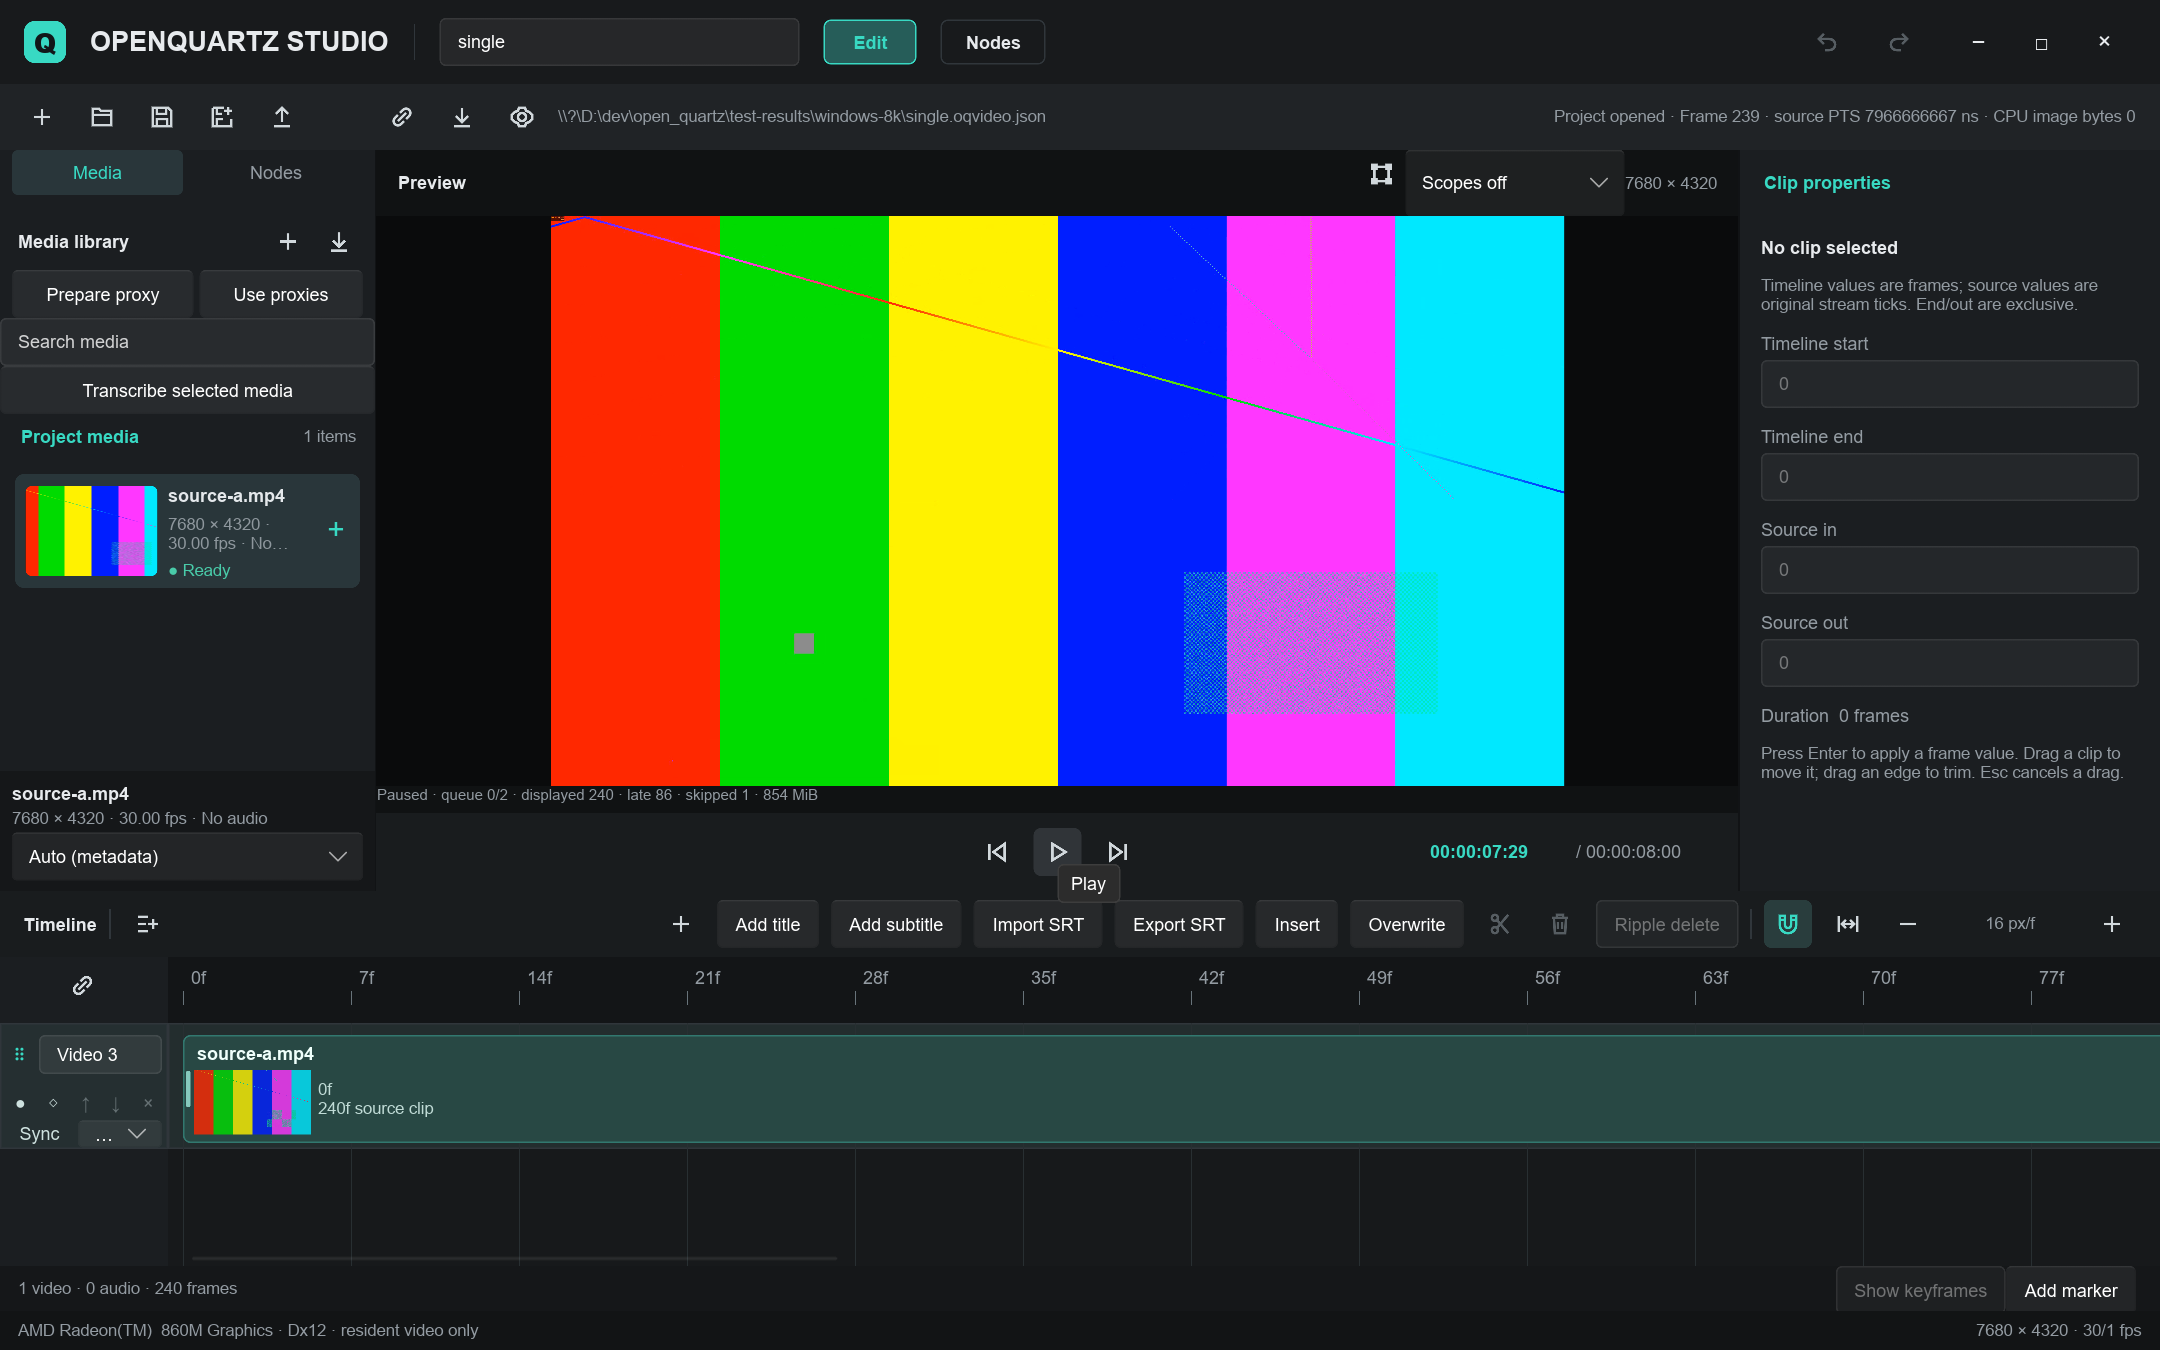
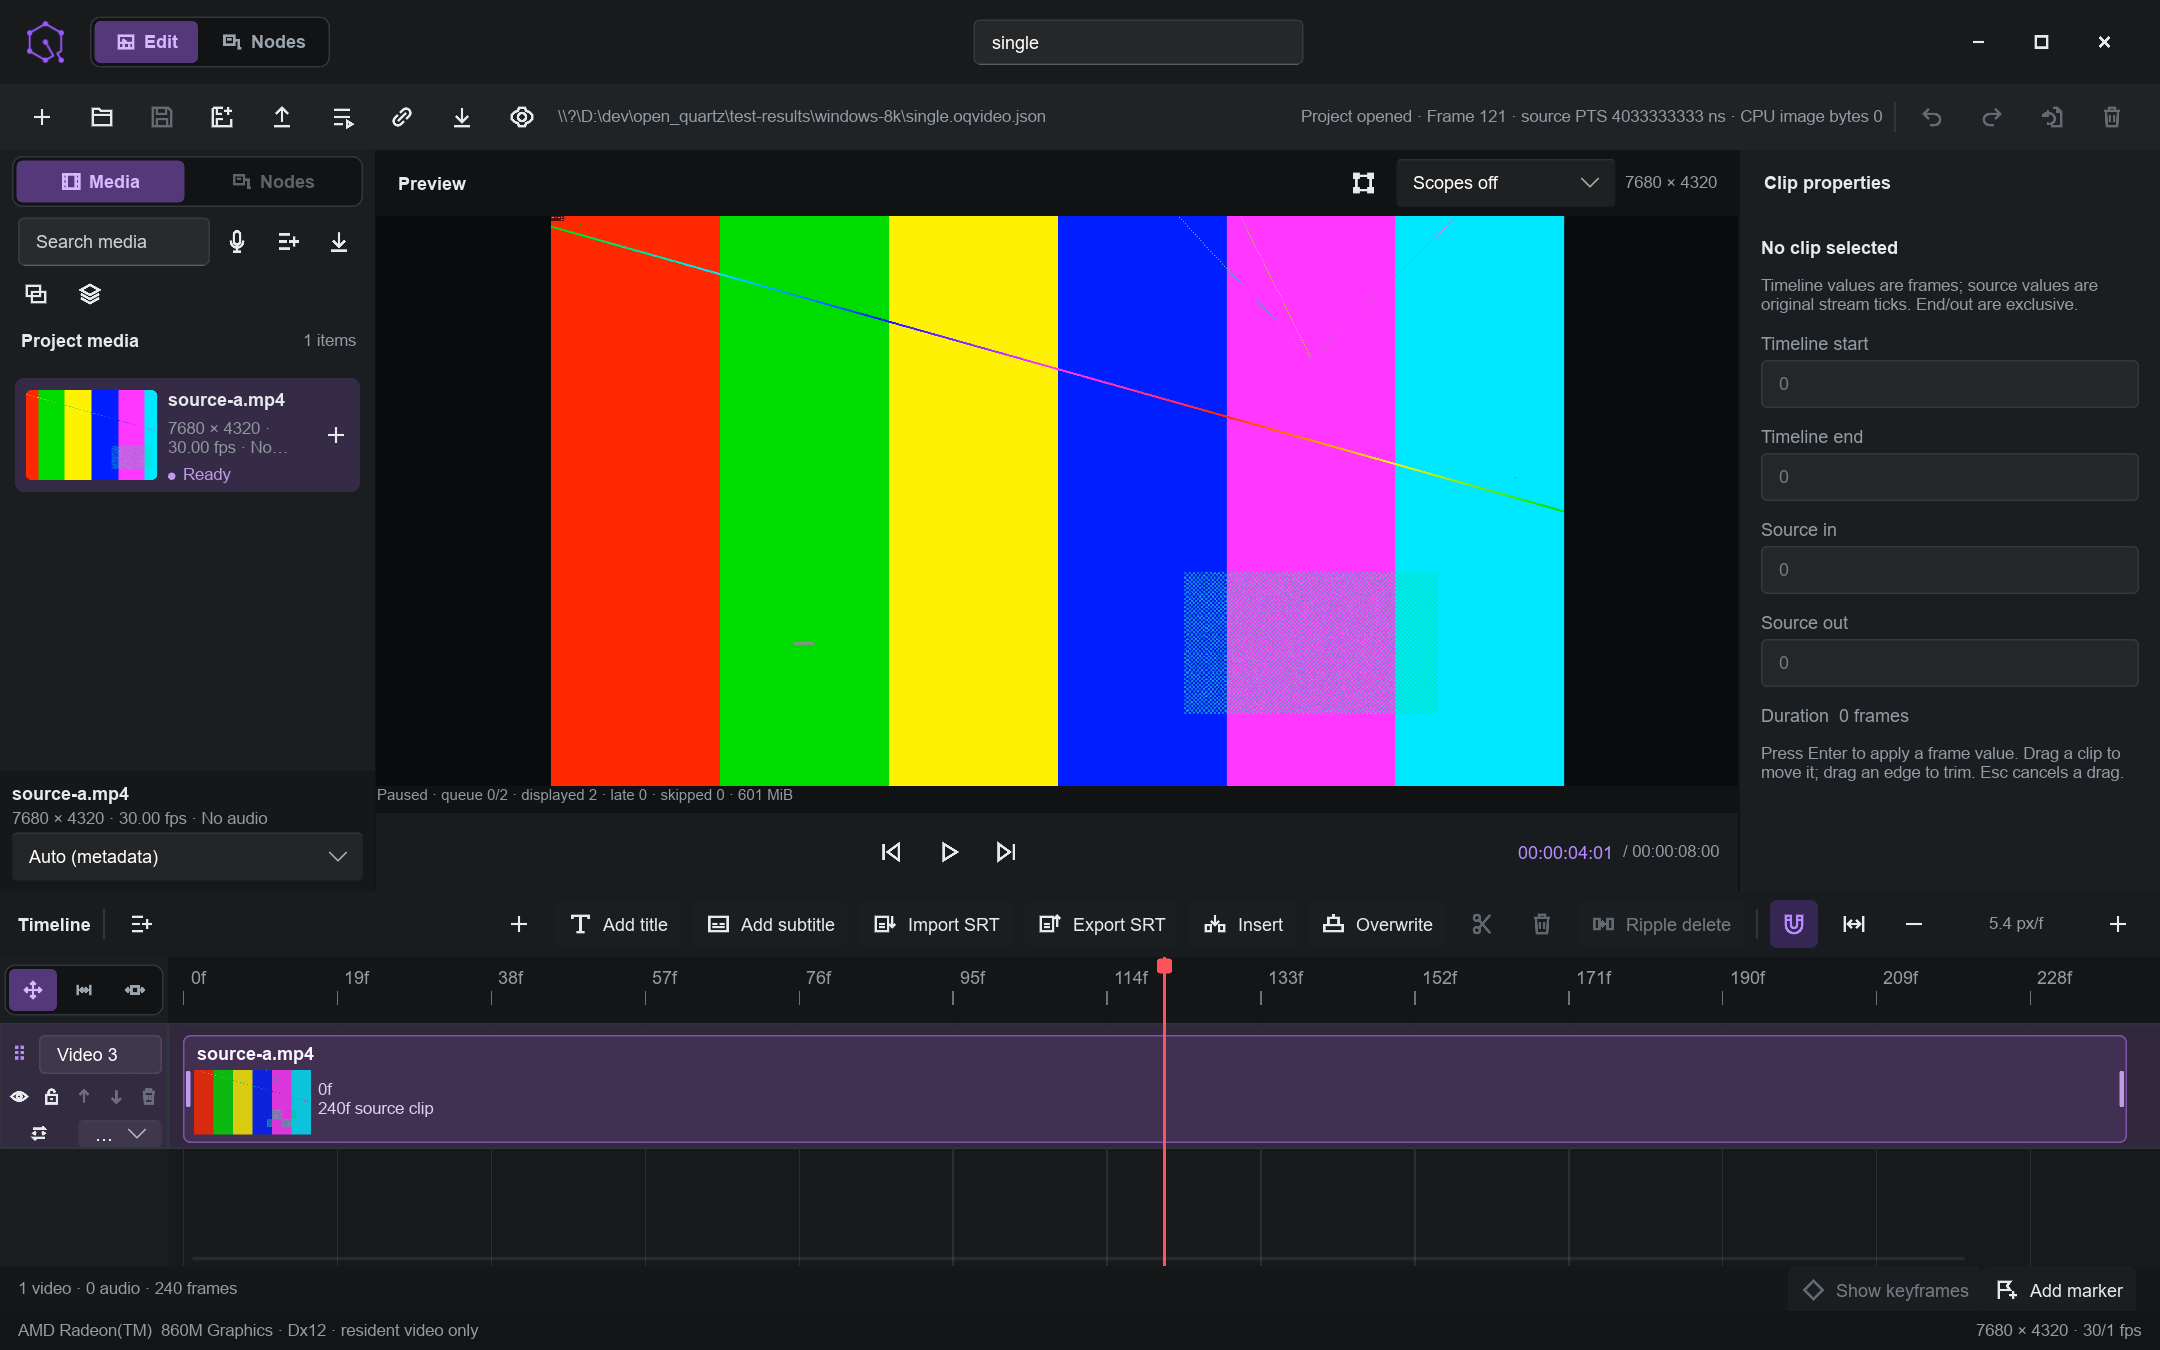
Refresh Studio highlights and native screenshots

diff --git a/README.md b/README.md
@@ -2,7 +2,9 @@
 
 [![Rust](https://img.shields.io/badge/Rust-native-000000?logo=rust)](https://www.rust-lang.org/) [![Slint](https://img.shields.io/badge/UI-Slint-2379F4)](https://slint.dev/) [![wgpu](https://img.shields.io/badge/GPU-wgpu-6E56CF)](https://wgpu.rs/) [![FFmpeg](https://img.shields.io/badge/Media-FFmpeg-007808?logo=ffmpeg)](https://ffmpeg.org/) [![CI](https://github.com/sanitor/oq-studio/actions/workflows/ci.yml/badge.svg?branch=master)](https://github.com/sanitor/oq-studio/actions/workflows/ci.yml) [![License: MIT](https://img.shields.io/badge/license-MIT-green)](LICENSE)
 
-**A native, non-destructive video editor for Windows and macOS.** Cut on a multitrack timeline, grade and composite with per-clip GPU node graphs, and turn spoken media into an editable rough cut with local AI.
+**A cross-platform video editor built for native GPU performance and local AI.** Cut on a non-destructive multitrack timeline, grade and composite with per-clip node graphs, and turn dialogue into an editable rough cut.
+
+Studio targets desktop and mobile platforms. The desktop preview is available for **Windows x64** and **Apple Silicon macOS**. Mobile support is planned across platforms, including iOS, iPadOS and Android.
 
 [Download the desktop preview](https://github.com/sanitor/oq-studio/releases) · [中文使用文档](apps/open_quartz_video_editor/README.md) · [Roadmap](apps/open_quartz_video_editor/TODO.md)
 
@@ -10,22 +12,19 @@
 
 ## Highlights
 
-### Cross-platform desktop editing
+### Edit and organize
 
-The same Studio project format and editing workflow are available on **Windows x64** and **Apple Silicon macOS**. Projects preserve source media references and sequence settings. Media relinking matches originals by content fingerprint when assets move.
+- **Work with a shared media library.** Import video, audio and stills, search project media, mark source In/Out points, and relink moved originals by content fingerprint. Autosave recovery and previous project versions help recover edits.
+- **Cut with a multitrack timeline.** Insert or overwrite, trim and ripple, roll a cut, slip or slide a clip, and keep linked audio in sync. Organize edits with markers, nested sequences and synchronized multicam switching.
+- **Build motion and titles.** Animate position, scale, rotation, crop, opacity and effect parameters. Use blend modes, dissolves, speed changes, titles and editable subtitles.
 
-| Windows x64 | Apple Silicon macOS |
-| --- | --- |
-| ![Studio on Windows with a multitrack timeline and Windows window controls](docs/images/studio-windows.png) | ![Studio on macOS with Metal shown in the status bar and an audio waveform on the timeline](docs/images/studio-macos.png) |
-| Direct3D 12 backend and D3D12VA video decode | Metal backend and VideoToolbox video decode |
+### Grade and composite
 
-### Native GPU performance
+- **Build a GPU graph for each clip.** Search the node catalog, preview effects on thumbnail tiles, connect branches, and monitor intermediate nodes or final output. Add built-in color, filter, distortion and blend nodes, or write a custom WGSL shader.
+- **Grade and compare shots.** Use ACEScg color management, primaries, HDR zones, channel curves, RGB mixing, CUBE LUTs and scopes. Compare against the original or a saved still, copy grades between clips, and keep alternate grade versions.
+- **Shape and track a composite.** Combine layers and mattes, track feathered masks, correct tracking drift, and apply shared exposure or saturation adjustments across a track or sequence.
 
-Studio uses Rust and Slint for the desktop interface, wgpu for rendering, and [oq-media](https://github.com/sanitor/oq-media) with FFmpeg for timestamp-accurate media access. Supported hardware video frames stay on the GPU for preview and compositing. Playback uses a bounded frame window, and proxy media helps with heavier projects.
-
-![A 7680 by 4320 source in the program monitor with renderer and playback diagnostics visible](docs/images/gpu-8k-preview.png)
-
-*8K playback diagnostics from a Windows Radeon test using synthetic footage. Frame delivery depends on the hardware, footage and effects. See the [8K measurement notes](apps/open_quartz_video_editor/DESIGN.md#912-8k实测与可复跑证据2026-11-20) for the test setup and results.*
+![Nodes workspace showing the searchable effect browser, a clip-level Color Corrector, the program monitor and the inspector](docs/images/node-grading.png)
 
 ### Local AI for editing and compositing
 
@@ -36,17 +35,20 @@ Studio uses Rust and Slint for the desktop interface, wgpu for rendering, and [o
 
 *Local Whisper transcription of a short excerpt from John F. Kennedy's inaugural address. Setup requires a local CLI and model. See the [transcription guide](apps/open_quartz_video_editor/README.md#本地转录与文本粗剪).*
 
-### Professional editing, grading and delivery
+### Mix and deliver
 
-| Workflow | Studio tools |
-| --- | --- |
-| **Edit** | Source In/Out, insert and overwrite, ripple and roll, slip and slide, nested sequences and synchronized multicam switching |
-| **Grade and composite** | Per-clip node graphs, ACEScg, scopes, CUBE LUTs, grade versions, shared track and timeline adjustments, and tracked polygon masks |
-| **Finish and deliver** | SRT, OTIO timeline exchange, ProRes 422 HQ, H.264 and HEVC MP4, plus 24-bit PCM stems with LUFS and true-peak reporting |
+- **Edit and mix audio.** Work with linked or independent audio, waveforms, fades, crossfades, clip gain, track mute and solo, and level meters.
+- **Export and exchange.** Queue H.264 SDR or HEVC HDR MP4 exports, create ProRes 422 HQ SDR masters, and deliver 24-bit PCM mixes and stems with LUFS and true-peak reporting. Import or export SRT subtitles and exchange supported timeline edits with OTIO.
 
-![Nodes workspace showing a Color Corrector between clip input and output, with a live program monitor and title track](docs/images/node-grading.png)
+See the [editor guide](apps/open_quartz_video_editor/README.md) for codec support, OTIO coverage and HDR delivery limits.
 
-*Clip-level Color Corrector and the program monitor in the Nodes workspace. The [editor guide](apps/open_quartz_video_editor/README.md) documents codec support and the current OTIO and HDR boundaries.*
+### Native GPU playback
+
+Studio uses Rust and Slint for the interface, wgpu for rendering, and oq-media with FFmpeg for timestamp-accurate media access. Supported decoded frames stay on the GPU for preview and compositing. Playback uses a bounded frame window, and background proxy generation can make demanding projects easier to edit.
+
+![Studio previewing a synthetic 7680 by 4320 test clip on Windows](docs/images/gpu-8k-preview.png)
+
+*8K preview with synthetic footage on Windows. Frame delivery depends on the hardware, footage and effects. See the [8K measurement notes](apps/open_quartz_video_editor/DESIGN.md#912-8k实测与可复跑证据2026-11-20) for benchmark setup and results.*
 
 ## Get Studio
 
@@ -54,8 +56,8 @@ Download the appropriate archive from [GitHub Releases](https://github.com/sanit
 
 | Platform | Launch |
 | --- | --- |
-| Windows x64 | Run `open_quartz_video_editor.exe` from the extracted folder. |
-| macOS Apple Silicon | Open `OpenQuartz Studio.app` from the extracted archive. |
+| Windows x64 | Run `open_quartz_video_editor.exe` from the extracted folder. Uses Direct3D 12 and D3D12VA. |
+| macOS Apple Silicon | Open `OpenQuartz Studio.app` from the extracted archive. Uses Metal and VideoToolbox. |
 
 ## Build from source
 
